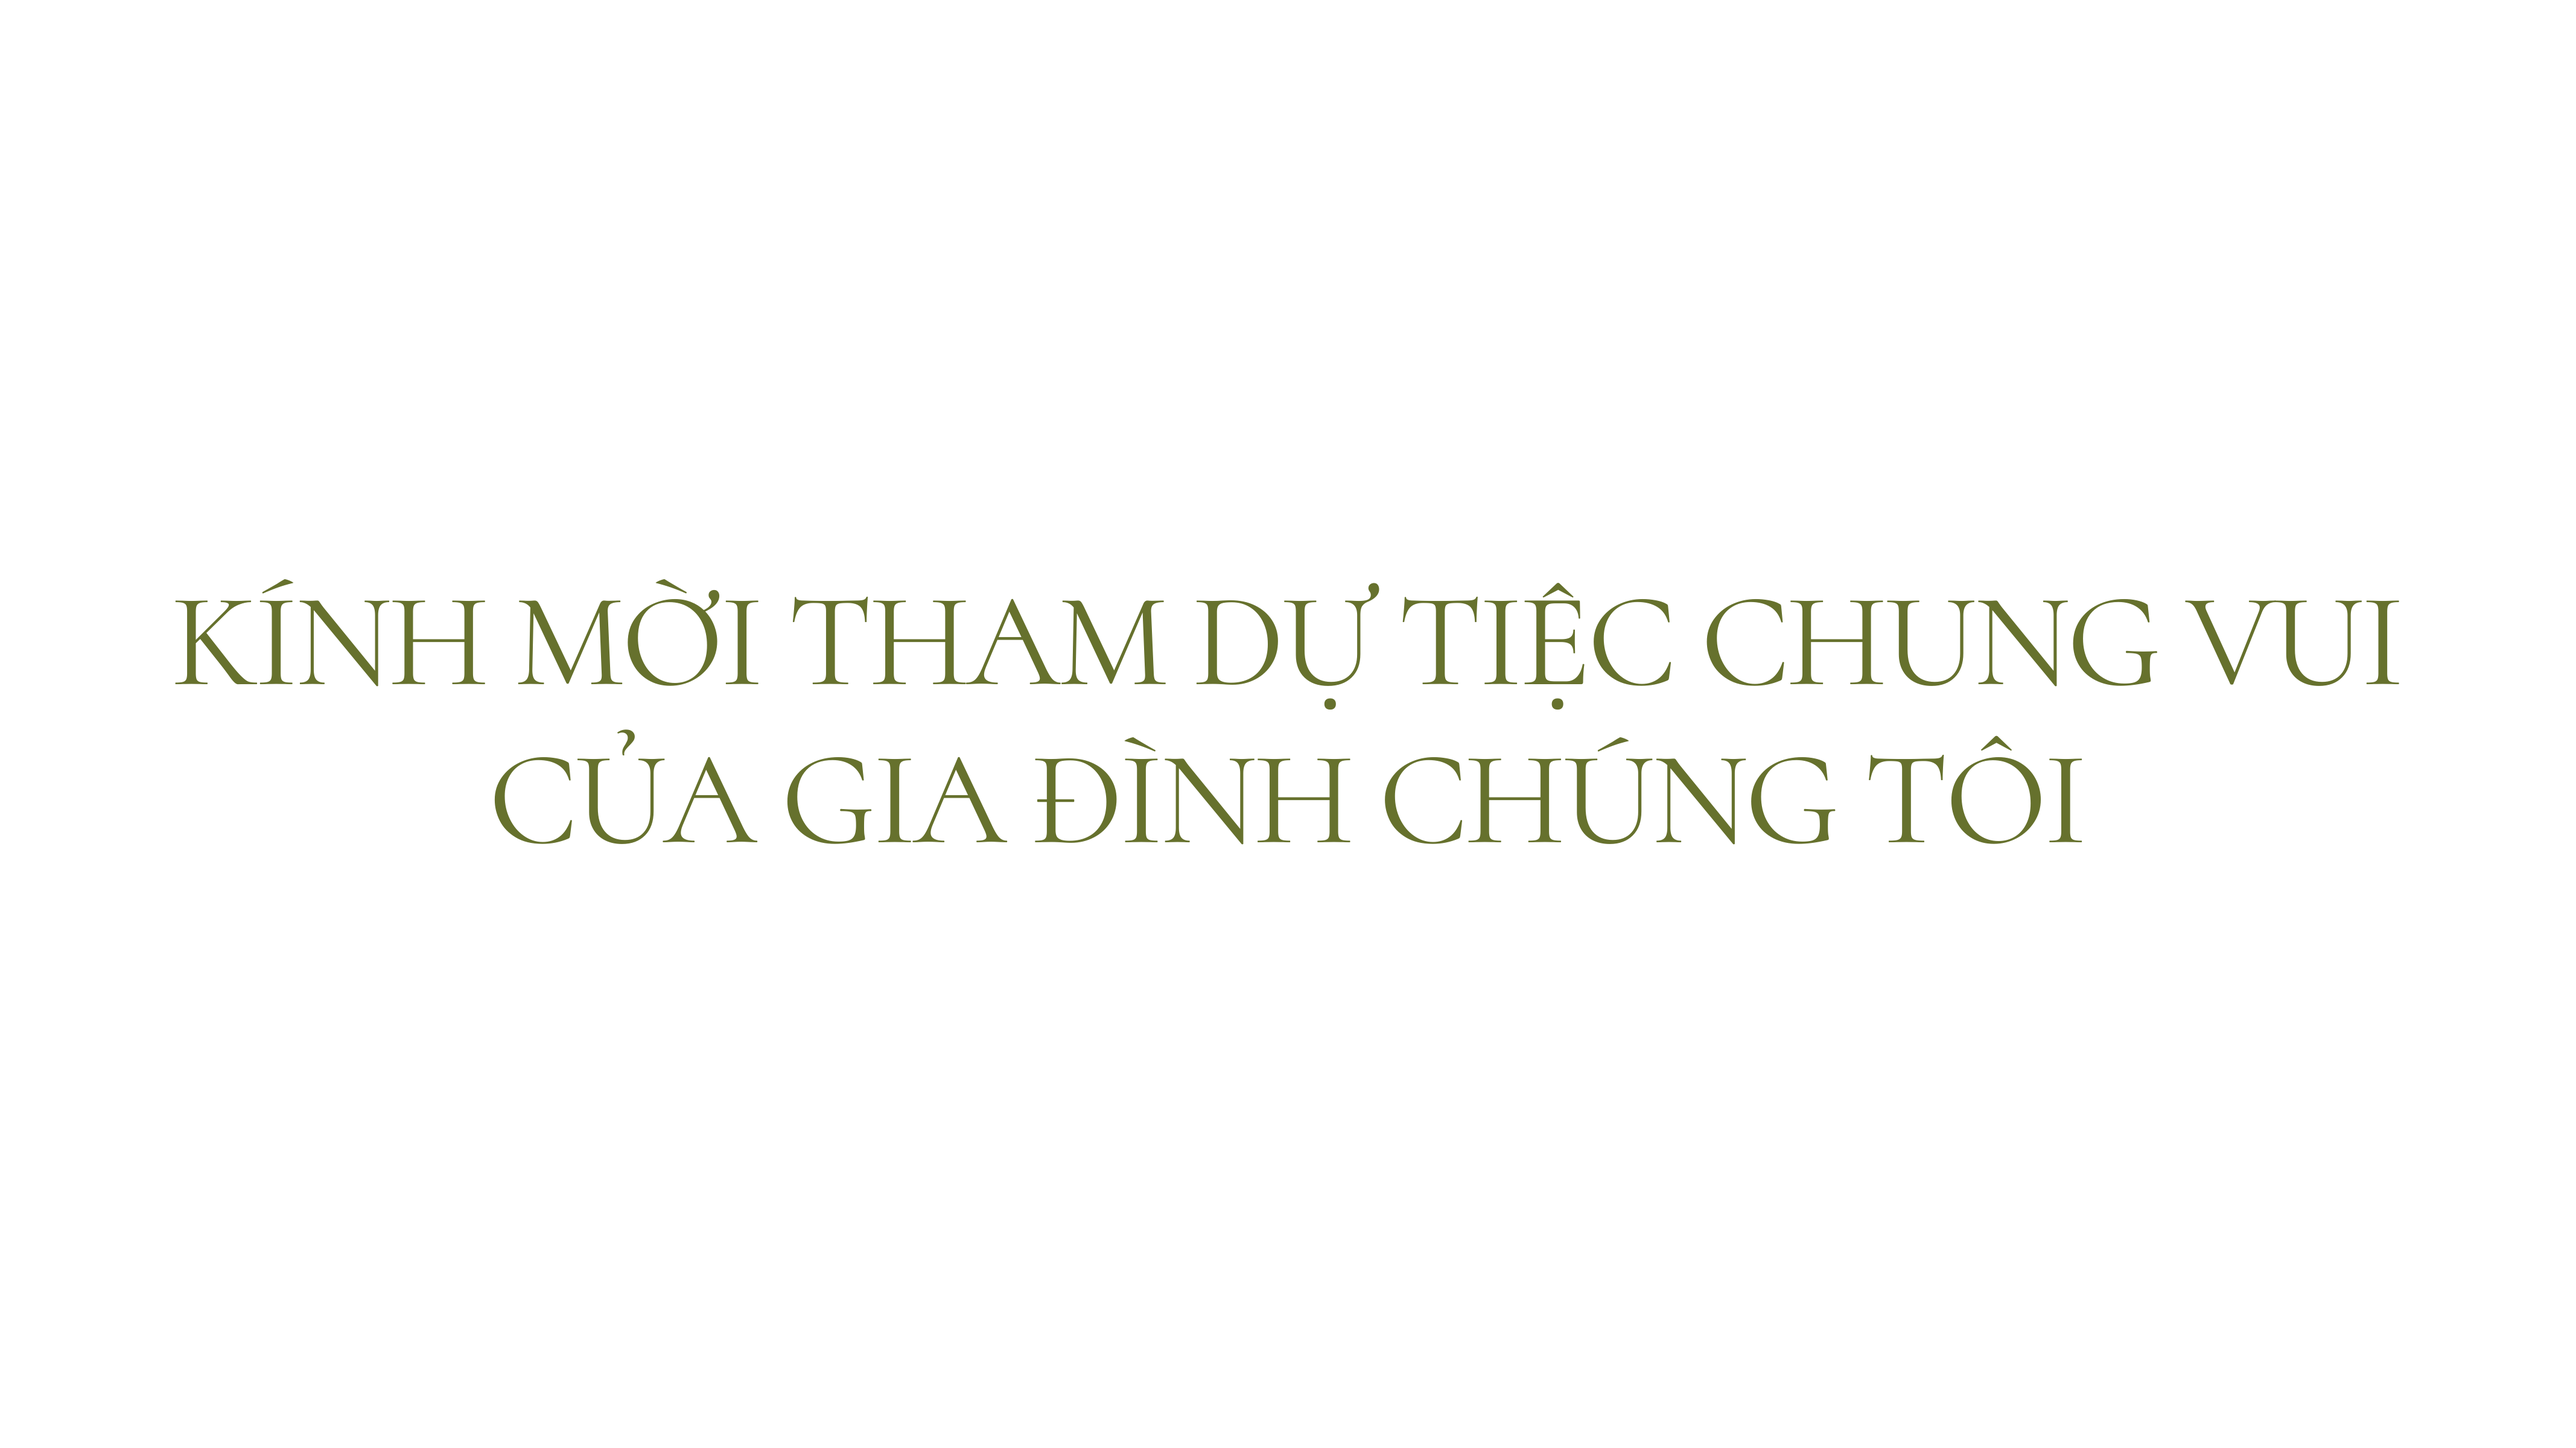
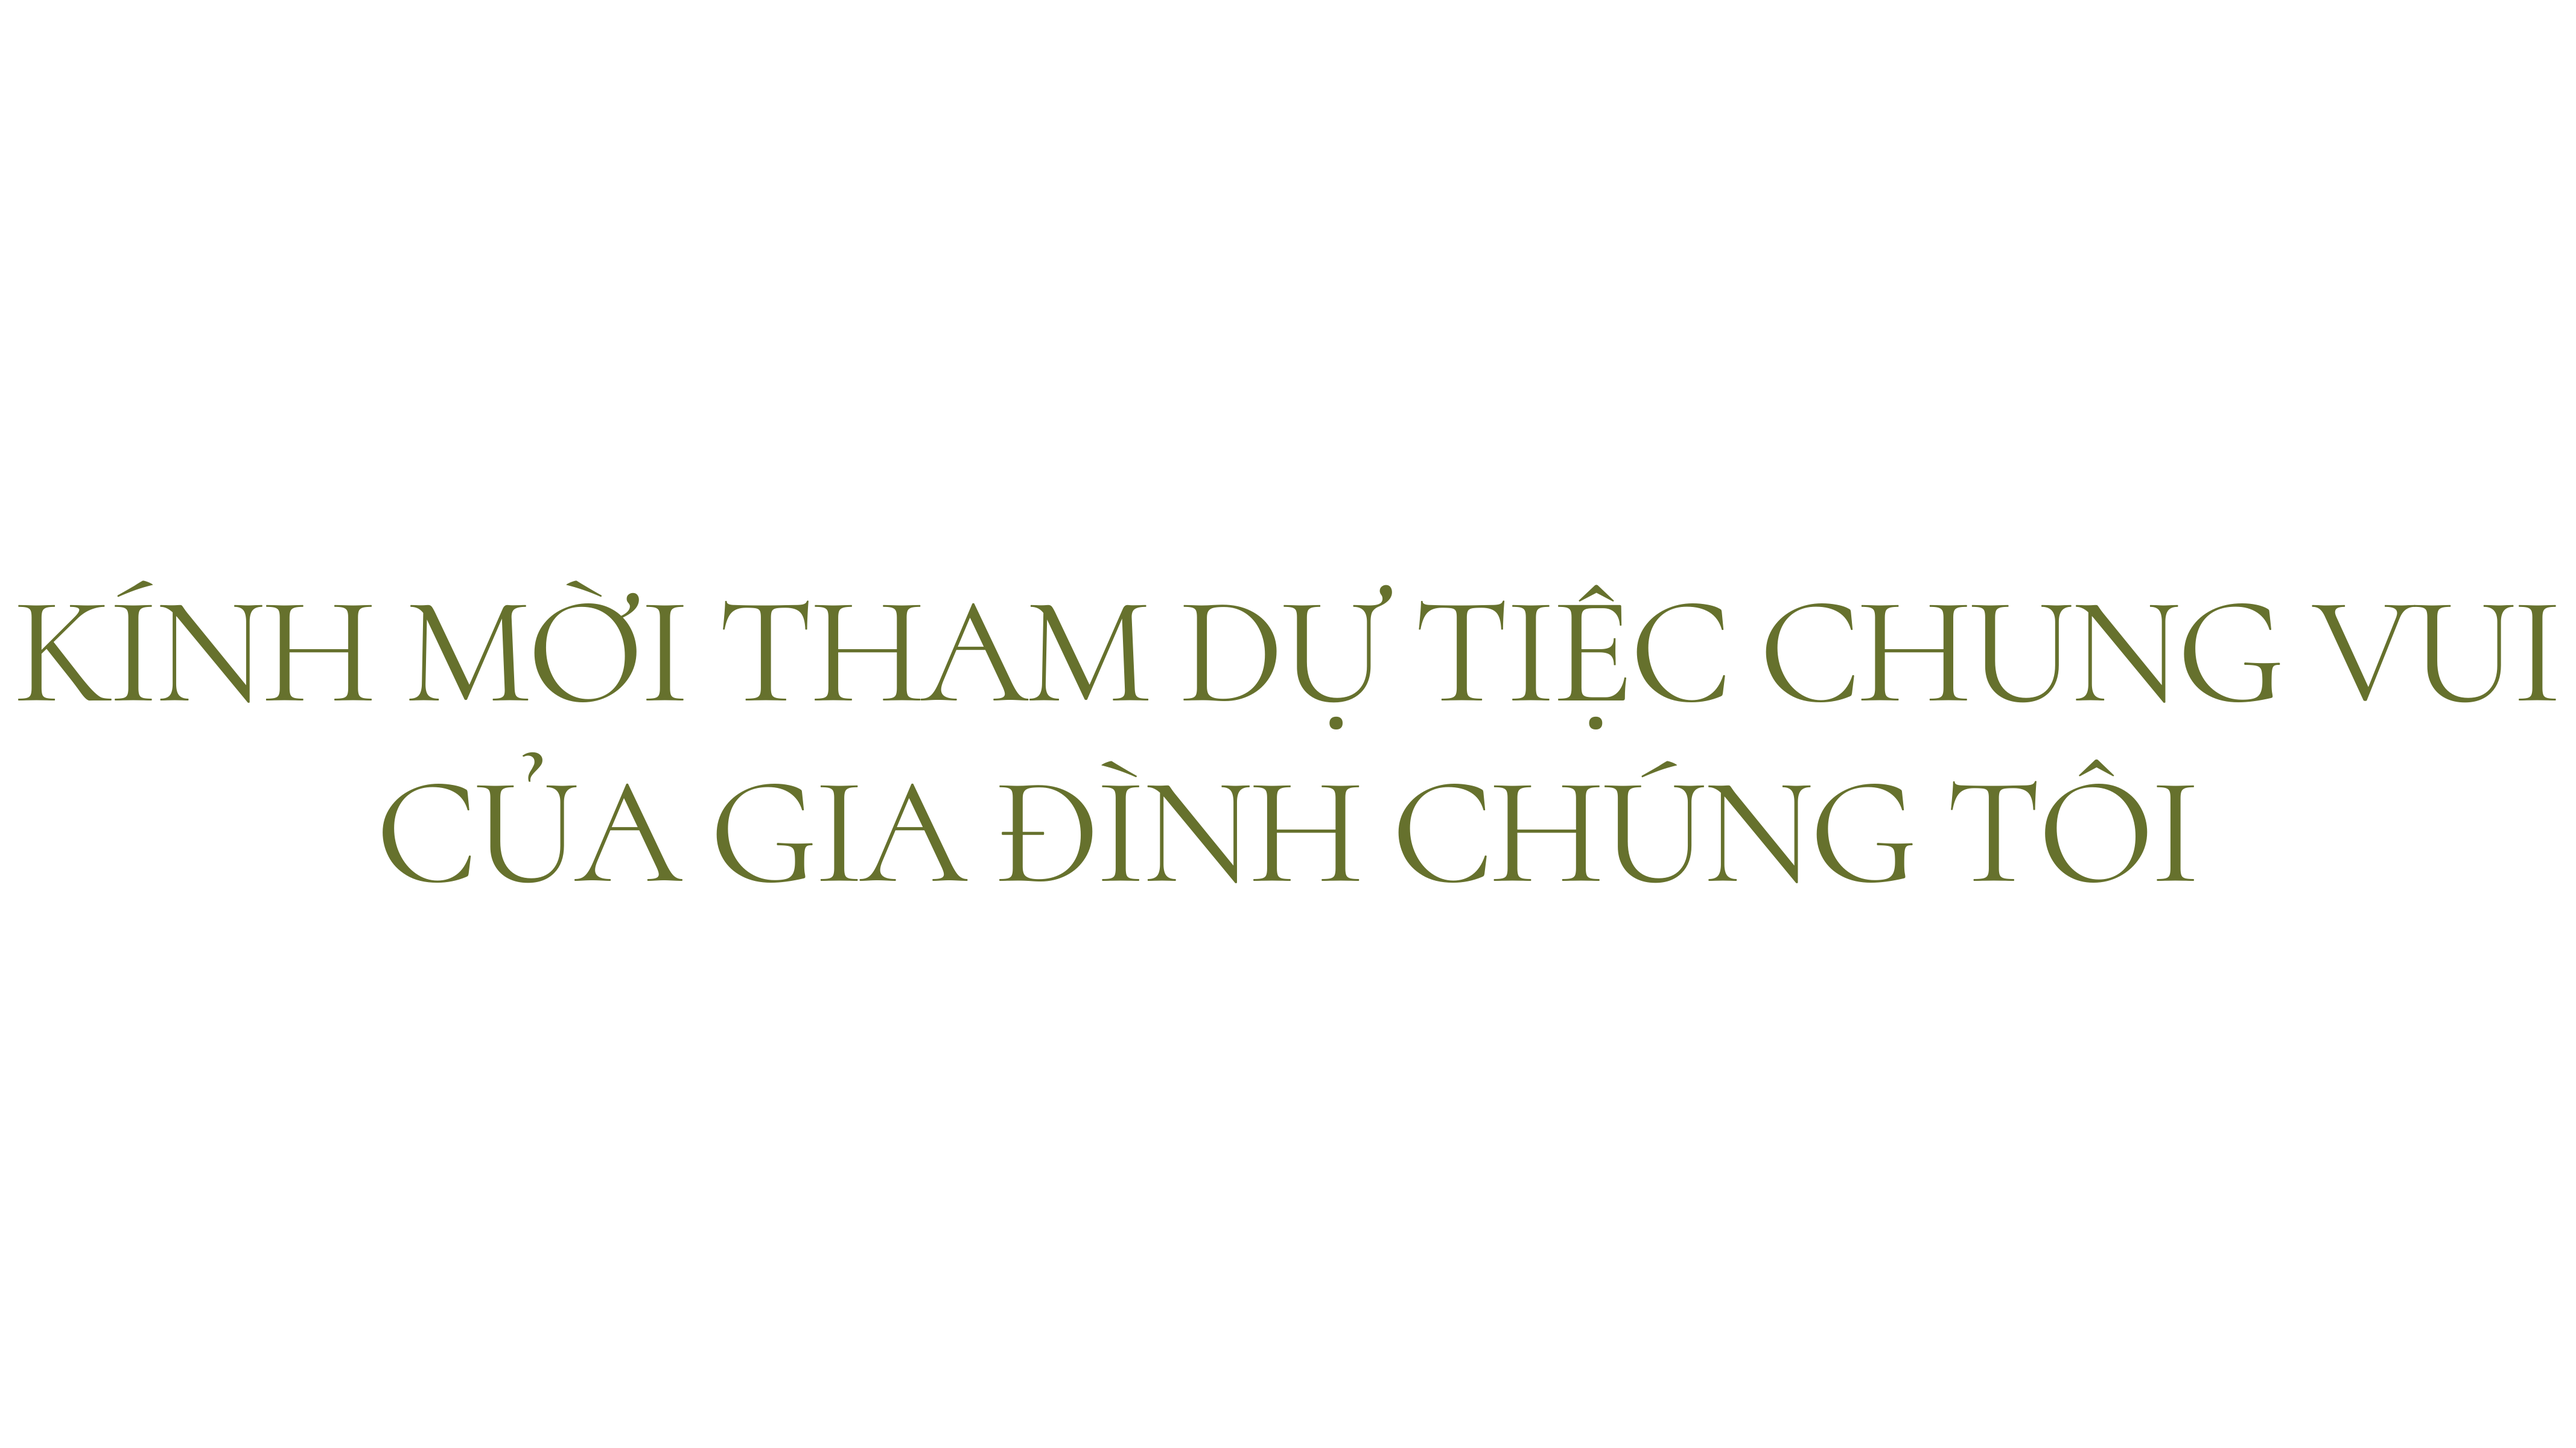
fix

Changed region(s): [[0.0, 0.4062, 0.997, 0.625], [0.1246, 0.5625, 0.1558, 0.5938]]

diff --git a/index.html b/index.html
@@ -588,16 +588,16 @@
             /* --- CÁC ELEMENT BỔ SUNG ĐỂ BẠN TỰ CHỈNH --- */
             
             img[src*="text-begin.png"] {
-                width: 80% !important;
+                width: 90% !important;
                 max-width: none !important;
-                margin-top: 70px !important;
+                margin-top: 60px !important;
             }
 
             /* 1. Ảnh: Ngày tháng (đoạn đầu) */
             img[src*="text-date.png"] {
-                width: 50% !important; /* Chỉnh độ rộng */
-                margin-top: 100px !important; /* Chỉnh khoảng cách trên */
-                margin-bottom: 0 !important; /* Chỉnh khoảng cách dưới */
+                width: 60% !important; /* Chỉnh độ rộng */
+                margin-top: 80px !important; /* Chỉnh khoảng cách trên */
+                margin-bottom: 20px !important; /* Chỉnh khoảng cách dưới */
             }
 
             /* 2. Ảnh: Tên Cha Mẹ */
@@ -652,7 +652,6 @@
                 width: 120px !important;
                 margin-top: 20px !important;
                 margin-bottom: 20px !important;
-                margin-left: 110px !important;
             }
 
             /* 3. Fix Hoa (Dùng % để neo vào góc màn hình điện thoại) */
@@ -773,9 +772,75 @@
             .time-box .time-number { font-size: 2rem !important; }
             .separator { font-size: 2rem !important; }
         }
+
+        /* --- CSS CHO PRELOADER --- */
+        #preloader {
+            position: fixed;
+            top: 0; left: 0;
+            width: 100%; height: 100%;
+            background-color: #fffef8; /* Màu nền giống trang web */
+            z-index: 999999; /* Đảm bảo nằm trên tất cả mọi thứ */
+            display: flex;
+            flex-direction: column;
+            justify-content: center;
+            align-items: center;
+            transition: opacity 0.6s ease-out; /* Hiệu ứng mờ dần khi tắt */
+        }
+
+        .loader-icon {
+            font-size: 30px;
+            color: #5d6e41; /* Màu chủ đạo */
+            margin-bottom: 15px;
+            animation: heartBeat 1.2s infinite ease-in-out;
+        }
+
+        .loader-text {
+            font-family: var(--font-body); /* Dùng font Quicksand giống form */
+            font-weight: 600; /* Cho chữ đậm lên một chút cho dễ đọc */
+            color: #5d6e41;
+            font-size: 1.2rem;
+            letter-spacing: 2px;
+            animation: fadeText 1.2s infinite ease-in-out;
+        }
+
+        /* Tạo dấu 3 chấm chuyển động */
+        .loader-text::after {
+            content: ''; /* Ban đầu rỗng */
+            display: inline-block;
+            width: 20px; /* Giữ khoảng trống để chữ không bị giật khi dấu chấm hiện ra */
+            text-align: left;
+            animation: typing 1.5s infinite steps(1); /* steps(1) giúp dấu chấm hiện dứt khoát */
+        }
+
+        /* Hiệu ứng gõ dấu chấm */
+        @keyframes typing {
+            0%  { content: ''; }
+            25% { content: '.'; }
+            50% { content: '..'; }
+            75% { content: '...'; }
+            100%{ content: ''; }
+        }
+
+        @keyframes heartBeat {
+            0% { transform: scale(1); }
+            15% { transform: scale(1.3); }
+            30% { transform: scale(1); }
+            45% { transform: scale(1.3); }
+            100% { transform: scale(1); }
+        }
+        
+        @keyframes fadeText {
+            0%, 100% { opacity: 0.5; }
+            50% { opacity: 1; }
+        }
     </style>
 </head>
 <body>
+    <div id="preloader">
+        <i class="fa-solid fa-heart loader-icon"></i>
+        <div class="loader-text">Chờ xíu nha</div>
+    </div>
+
     <div class="container">
         <header class="hero-header reveal">
             <img src="src/wedding-cover.png" alt="Ảnh cưới Tấn Tài - Linh Tâm" class="main-cover">
@@ -797,7 +862,7 @@
             <img src="src/flower2.png" class="flower-decor reveal" style="width: 350px; top: 480px; left: -84px;">
             
             <div class="section-gap reveal">
-                <img src="src/text-date.png" alt="Ngày tháng" class="img-block" style="width: 50%; margin-top: 120px;">
+                <img src="src/text-date.png" alt="Ngày tháng" class="img-block" style="width: 60%; margin-top: 90px;">
             </div>
 
             <img src="src/flower3.png" class="flower-decor reveal" style="width: 150px; top: 800px; left: 100px;">
@@ -1281,6 +1346,19 @@
     </style>
 </body>
 <script>
+    /* --- SCRIPT TẮT PRELOADER KHI TẢI XONG --- */
+        window.addEventListener("load", function() {
+            const preloader = document.getElementById('preloader');
+            // Đợi thêm 0.5 giây cho mượt rồi mới tắt
+            setTimeout(() => {
+                preloader.style.opacity = '0'; // Làm mờ
+                setTimeout(() => {
+                    preloader.style.display = 'none'; // Xóa hẳn
+                }, 600); // Thời gian này khớp với transition trong CSS
+            }, 500);
+        });
+        
+    /* --- SCRIPT CHẶN XEM CODE Nguồn --- */
     // Chặn chuột phải
     document.addEventListener('contextmenu', function(e) {
         e.preventDefault();
